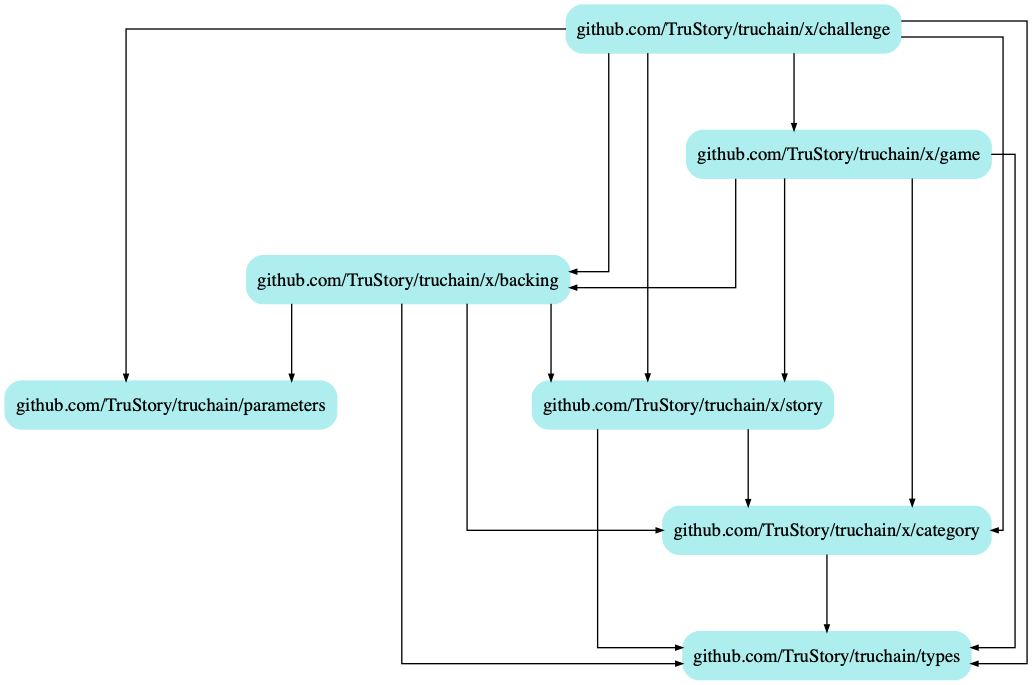
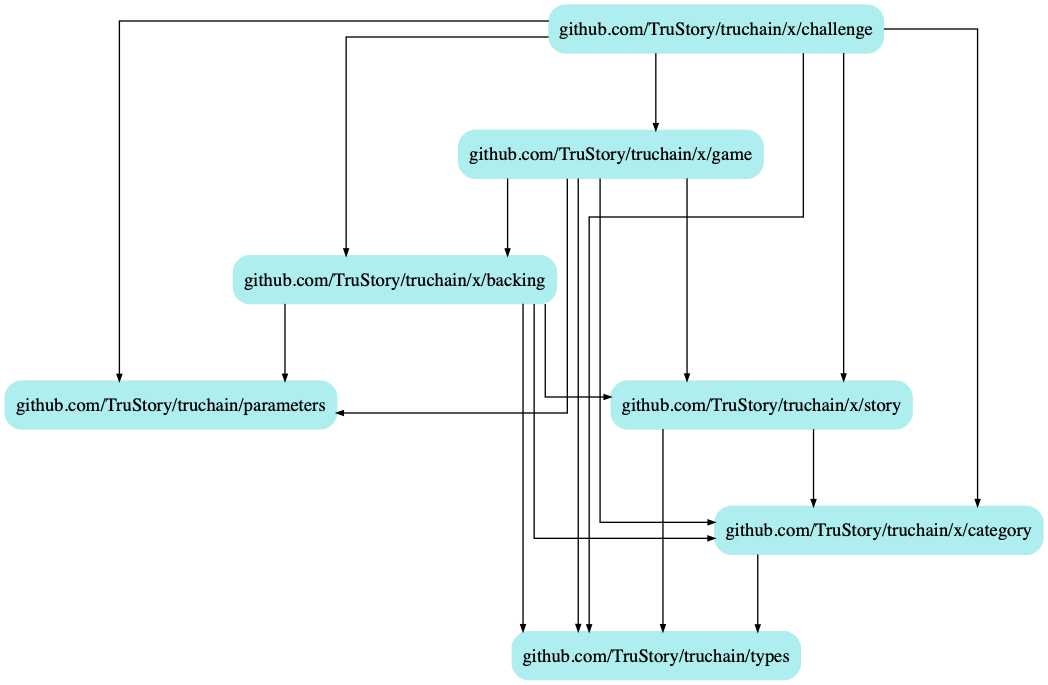
Updated READMEs and dependency graphs

diff --git a/README.md b/README.md
@@ -152,17 +152,17 @@ All data in stores are binary encoded using [Amino](https://github.com/tendermin
 
 Most chain operations are executed based on changes to data. Lists and queues are checked every time a new block is produced:
 
-1. Backing list
+1. Story Queue
 
-Handles the lifecycle of backings, distributing funds after backings mature.
+A queue of all new stories that haven't expired or gone through voting yet.
 
-2. Pending game list
+2. Expired Story Queue
 
-Handles the lifecycle of challenges. Games in this list have been challenged but haven't met the threshold required for voting to begin. After the threshold is met, games in this list are promoted to the game queue.
+Stories that expire before going into voting are pushed into this list. The queue is processed after each block to distribute rewards to backers and return funds to challengers.
 
-3. Game queue
+3. Voting Story Queue
 
-Handles the lifecycle of voting on a story (validation game). Upon completion of a game, funds are distributed to winners, and removed from losers.
+Handles the lifecycle of voting on a story (validation game). Upon completion of a voting game, funds are distributed to winners, and removed from losers.
 
 ## Testing
 

diff --git a/x/distribution/README.md b/x/distribution/README.md
@@ -1,0 +1,4 @@
+# TruChain: Distribution Module
+
+![](dep.png)
+
